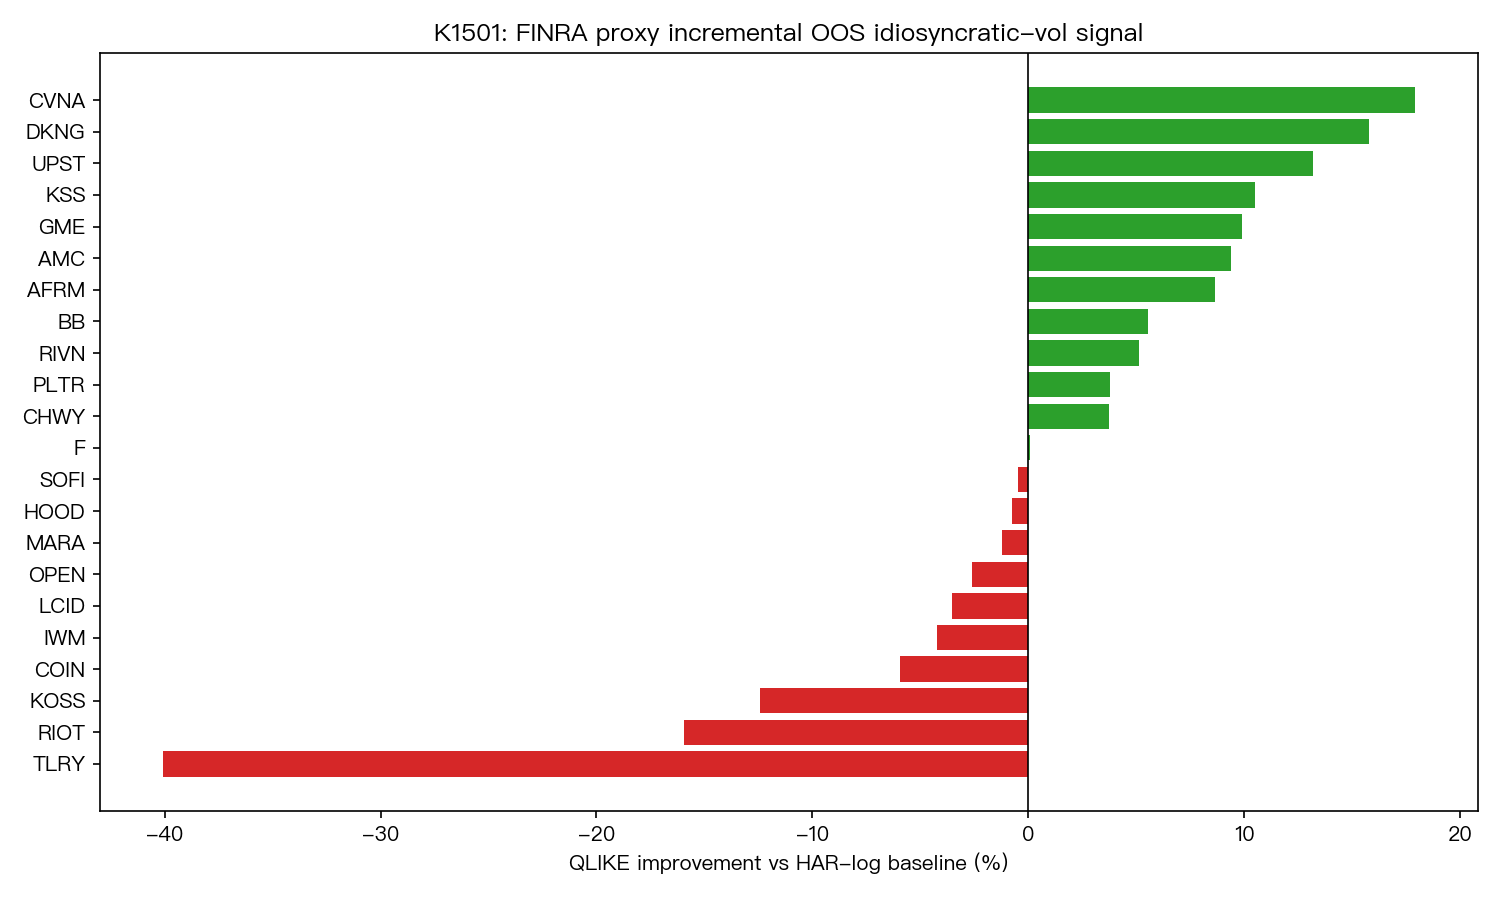
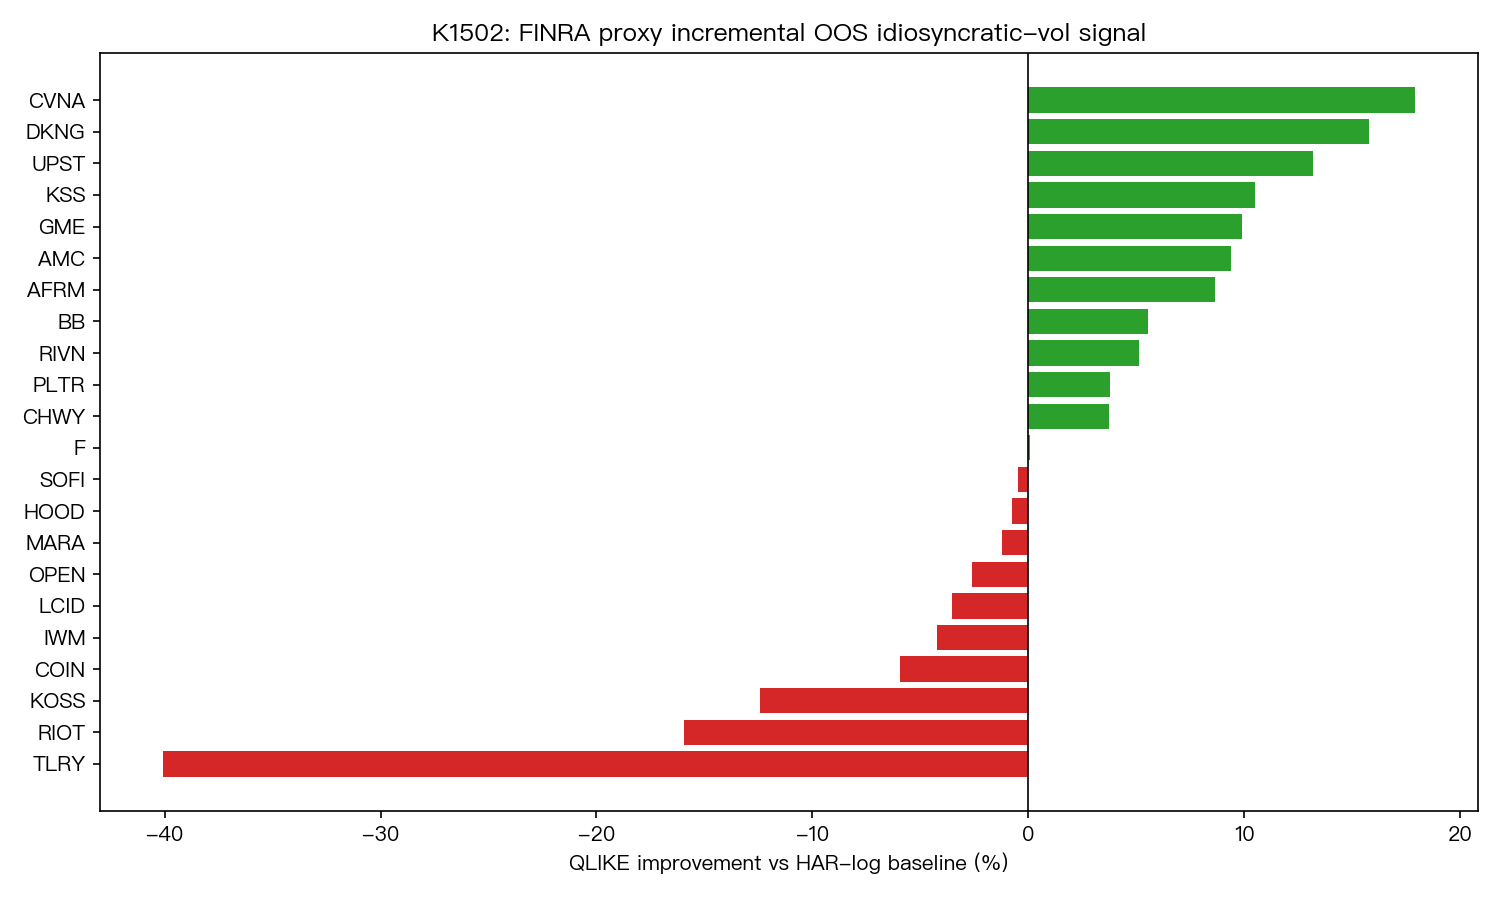
ops(hourly 22:32): PHASE-Z safety-net auto-commit (agent left uncommitted)

Changed region(s): [[0.276, 0.0311, 0.7667, 0.0622]]

diff --git a/research_program.md b/research_program.md
@@ -578,7 +578,7 @@ K1370 block-bootstrap CI 重跑揭露：論文 headline 10× 是 **spec mismatch
 > 來源：journal-topic-discovery（WebSearch 趨勢層級，未捏造論文標題+作者；唯二指名 "Seeking Gamma"(AFA wp) 與 "Factor MAX and Predictable Factor Returns"(SBFC 2025) 為搜尋真實出現標題）。6 個全新主題軸，每軸 ≤3，與既有 6 batch + feed 近 120 篇正交。
 > **新軸 1 — retail/dealer-gamma 微結構**
 - [ ] Gamma-squeeze 候選股「散戶驅動波動」事件研究 — yfinance 2024-26 meme/gamma 候選（OPEN/KSS/GME 等），用「成交量 z-score × 報酬」代理 dealer-hedging 壓力，事件窗檢定 RV 與後續 CAR/reversal 不對稱（來源：JFE/AFA 2025-26 "Seeking Gamma"，squeeze 後一月 CAR +5.13%）
-- [x] ~~散戶交易強度 proxy 對次日 idio-vol 的領先力~~ → **K1502 completed 2026-06-15，NULL (renamed from K1501 — K1501 reserved for VRP up/down decomposition this fire)**：FINRA CNMS public off-exchange short-volume ratio / off-exchange volume proxy + 22 檔 retail-tilted basket，OOS 2024-07-19 to 2026-06-12（477 obs/ticker）。Rolling 252-day HAR-log idio variance baseline；full model 加 lagged FINRA short-ratio z 與 lagged off-exchange volume z，全部 `.shift(1)`。0/22 tickers pass Harvey `|DM t|>3`，median QLIKE improvement +1.91%，sign-test p=0.416，pooled DM t=-0.69 p=0.493。限制：FINRA short-volume 只是 public off-exchange proxy，不是真 retail order flow；不可上架為獨立 vol signal。
+- [x] ~~散戶交易強度 proxy 對次日 idio-vol 的領先力~~ → **K1502 completed 2026-06-15，NULL**：FINRA CNMS public off-exchange short-volume ratio / off-exchange volume proxy + 22 檔 retail-tilted basket，OOS 2024-07-19 to 2026-06-12（477 obs/ticker）。Rolling 252-day HAR-log idio variance baseline；full model 加 lagged FINRA short-ratio z 與 lagged off-exchange volume z，全部 `.shift(1)`。0/22 tickers pass Harvey `|DM t|>3`，median QLIKE improvement +1.91%，sign-test p=0.416，pooled DM t=-0.69 p=0.493。限制：FINRA short-volume 只是 public off-exchange proxy，不是真 retail order flow；不可上架為獨立 vol signal。
 > **新軸 2 — closing-auction / index-rebalance 微結構**
 - [ ] Russell/標普 reconstitution 日尾盤波動「dislocation 但收斂」 — 重組日 vs 一般日 close-to-close vs intraday-range vol 拆解，檢定重組日尾盤 RV 系統升高但隔日均值回歸（來源：BMLL/Traders 2025 closing auction，重組日量 9%→20%）
 - [ ] MOC imbalance 公布後尾盤漂移可交易性 — ETF/大型股尾盤分鐘代理，檢定 imbalance 方向是否預測收盤前漂移與隔夜 gap，含成本（~1.7bp liquidity premium）（來源：NYSE/CFA 2025 MOC imbalance）
